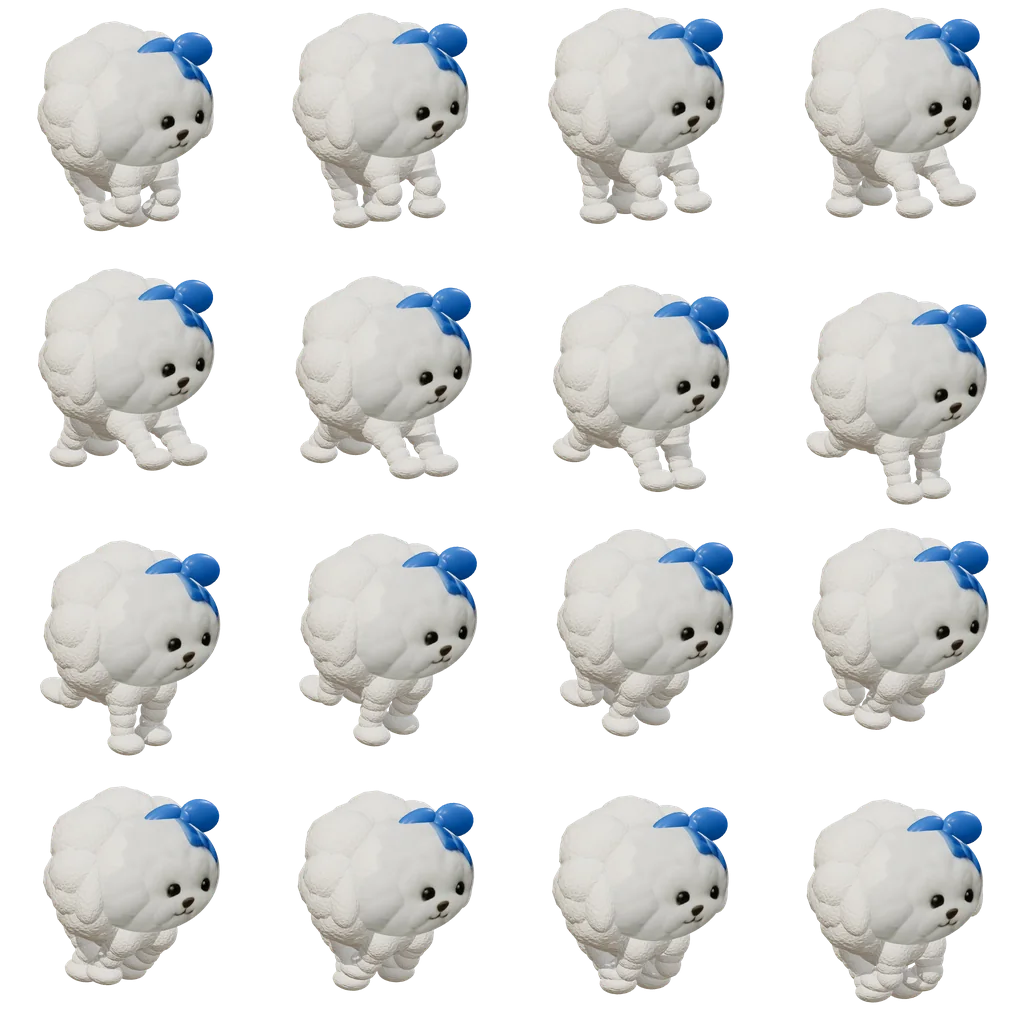
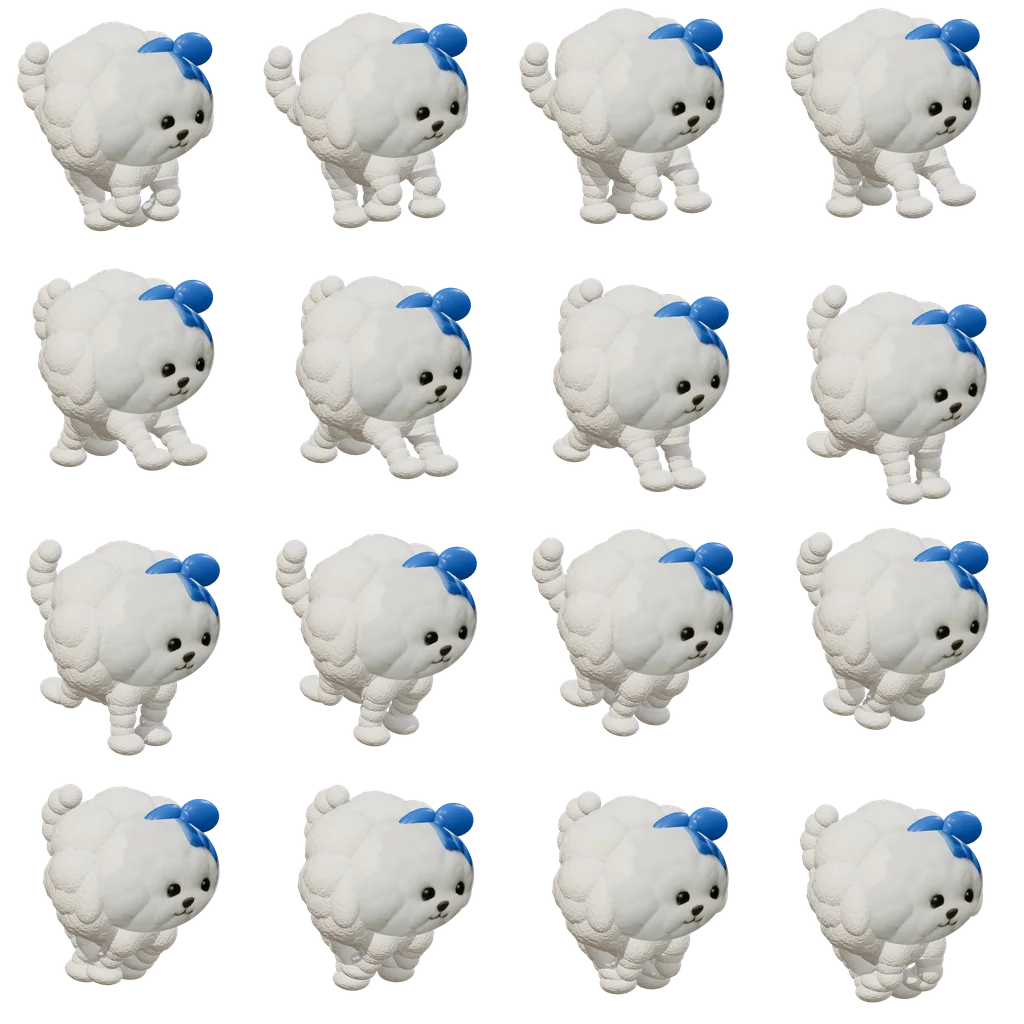
위젯: 선택 화면 미리보기(시계) · 강아지 꼬리(비숑 길게, 푸들 짧게) · 화면 켤 때마다 캐릭터 교체
- previewImage 4종(시계 화면 + 캐릭터)
- 3D 모델 꼬리 추가·재렌더(카메라 고정 FIXV라 시트 크기·바닥줄 불변), 시험 추가
- 화면 켜짐마다 캐릭터 3마리 새로 뽑기(WidgetSim.pickSet), 켜짐 경로에 refreshAll 추가

Claude-Session: https://claude.ai/code/session_01BfnUkjKGjCUEdZxJkMs9UT

diff --git a/tools/chars3d/models.js b/tools/chars3d/models.js
@@ -84,8 +84,19 @@
       const col = new T.Mesh(new T.TorusGeometry(0.34, 0.065, 10, 36), mat(o.collar, { roughness: 0.55 })); col.position.set(0.34, 0.06, 0); col.rotation.y = Math.PI / 2; col.scale.set(1, 1.0, 1); body.add(sh(col));
       const bk = new T.Mesh(new T.BoxGeometry(0.06, 0.15, 0.13), mat(0xd8d2c6, { metalness: 0.3, roughness: 0.4 })); bk.position.set(0.36, -0.27, 0.0); body.add(sh(bk));
     }
-    // 꼬리(둥근 털공)
-    const tail = new T.Group(); tail.position.set(-0.5, 0.2, 0); body.add(tail); const tb = ell(0.2, 0.2, 0.2, fm, 18); tb.position.set(-0.1, 0.08, 0); tail.add(tb); fluff(tb, 0.2, 0.2, 0.2, 12, 0.14, fm, o.seed + 3); P.tail = tail;
+    // 꼬리(2026-10-15: 위젯에서 꼬리가 안 보인다는 지적) — 엉덩이 위에서 솟아 등 뒤로 말려 올라가는 털뭉치 꼬리(비숑·푸들 꼬리).
+    //   예전엔 몸통 뒤 낮은 곳의 공 하나라 3/4 시점에서 뒷다리·엉덩이에 가려 안 보였다. 이제 등선 위로 솟아 실루엣에 보인다.
+    const tail = new T.Group(); tail.position.set(-0.46, 0.2, 0); body.add(tail);
+    // 비숑(o.tail='long'): 길고 곱슬곱슬한 털 꼬리가 등 뒤로 솟았다 끝이 앞으로 말린다 · 푸들(o.tail='short'): 짧고 둥근 털 꼬리(작은 폼)
+    const TAILS = {
+      long: { f: [24, 0.1], balls: [[-0.08, 0.08, 0.05, 0.14], [-0.2, 0.2, 0.1, 0.15], [-0.3, 0.34, 0.15, 0.155], [-0.35, 0.5, 0.19, 0.155], [-0.36, 0.66, 0.21, 0.15], [-0.29, 0.8, 0.22, 0.14], [-0.18, 0.89, 0.22, 0.12]] },
+      short: { f: [16, 0.08], balls: [[-0.1, 0.12, 0.1, 0.15], [-0.22, 0.3, 0.2, 0.18], [-0.28, 0.46, 0.26, 0.2]] }
+    };
+    const TS = TAILS[o.tail || 'short'];
+    TS.balls.forEach((q, i) => {
+      const tb = ell(q[3], q[3], q[3], fm, 20); tb.position.set(q[0], q[1], q[2]); tail.add(tb); fluff(tb, q[3], q[3], q[3], TS.f[0], TS.f[1], fm, o.seed + 3 + i);
+    });
+    P.tail = tail;
     // 다리 네 개 [앞오른, 앞왼, 뒤오른, 뒤왼] — 엉덩이 공이 몸통에 박힌 통통한 털 다리 + 발
     P.legs = [];
     [[0.3, 0.23], [0.3, -0.23], [-0.3, 0.23], [-0.3, -0.23]].forEach((p, i) => {
@@ -102,7 +113,7 @@
     P.body.rotation.z = 0.12 * Math.sin(a + 0.9) * g;
     P.head.rotation.z = -0.1 * Math.sin(a + 0.9) * g + 0.04; P.head.position.y = 0.52 + 0.03 * Math.sin(a * 2);
     P.ears.forEach((e, i) => { e.rotation.z = 0.3 * Math.sin(a + 1.8) * g; e.rotation.x = (i ? 1 : -1) * 0.1; });
-    P.tail.rotation.z = 0.4 * Math.sin(a * 2 + 1) + 0.3; P.tail.rotation.x = 0.3 * Math.sin(a * 2.0);
+    P.tail.rotation.z = 0.22 * Math.sin(a * 2 + 1) + 0.12; P.tail.rotation.x = 0.25 * Math.sin(a * 2.0);
   }
 
   // ═════ 고양이 (러블) ═════
@@ -271,8 +282,8 @@
 
   window.CHARS = {
     lovel: { name: '러블', build: () => buildCat(), pose: poseCat, yaw: -0.85, frames: 16, view: [3.3, 0.95, -0.12] },
-    dolsom: { name: '돌솜', build: () => buildDog({ fur: 0xeeeeea, bow: 0x3d7edb, seed: 31, tex: 'dolsom_head' }), pose: (r, p) => poseDog(r, p, { gait: 1.0, air: 0.22 }), yaw: -0.85, frames: 16, view: [3.3, 0.95] },
-    ppopu: { name: '뽀푸', build: () => buildDog({ fur: 0xb39a7a, collar: 0x5b3b24, seed: 57, tex: 'ppopu_head' }), pose: (r, p) => poseDog(r, p, { gait: 0.85, air: 0.3 }), yaw: -0.85, frames: 16, view: [3.3, 0.95] },
+    dolsom: { name: '돌솜', build: () => buildDog({ fur: 0xeeeeea, bow: 0x3d7edb, seed: 31, tex: 'dolsom_head', tail: 'long' }), pose: (r, p) => poseDog(r, p, { gait: 1.0, air: 0.22 }), yaw: -0.85, frames: 16, view: [3.3, 0.95] },
+    ppopu: { name: '뽀푸', build: () => buildDog({ fur: 0xb39a7a, collar: 0x5b3b24, seed: 57, tex: 'ppopu_head', tail: 'short' }), pose: (r, p) => poseDog(r, p, { gait: 0.85, air: 0.3 }), yaw: -0.85, frames: 16, view: [3.3, 0.95] },
     chaeng: { name: '챙챙', build: () => buildTadpole(), pose: poseTadpole, yaw: -0.8, frames: 16, view: [3.9, 1.1, -0.3] },
     sul: { name: '술', build: () => buildEagle(), pose: poseEagle, yaw: -0.8, frames: 16, view: [5.6, 1.35] },
     dudung: { name: '두덩', build: () => buildMole(), pose: poseMoleWalk, yaw: -0.85, frames: 16, view: [3.3, 1.05] },

diff --git a/test/widget_native_java.test.js b/test/widget_native_java.test.js
@@ -42,6 +42,9 @@ res = sys.argv[1]; bad = []; names = set(); ids = set(); refs = set()
 for r, d, fs in os.walk(res):
     for f in fs:
         p = os.path.join(r, f)
+        if f.endswith('.png'):
+            if os.path.basename(r).startswith('drawable'): names.add('drawable/' + f.rsplit('.', 1)[0])
+            continue
         try: minidom.parse(p)
         except Exception as e: bad.append(f + ': ' + str(e))
         t = open(p, encoding='utf-8').read()
@@ -65,7 +68,11 @@ print('BAD', bad); print('MISS', miss)
     assert(!bad.length, '알 수 없는 속성(오타?): ' + bad.join(', '));
     // 배경은 투명: 루트 배경 그림이 없어야 한다
     for (const f of walk(path.join(res, 'layout'), '.xml')) assert(!/gdm_bg_/.test(fs.readFileSync(f, 'utf8')), path.basename(f) + ' 에 배경이 남아 있다');
-    for (const n of ['hb', 'hw', 'vb', 'vw']) assert(fs.existsSync(path.join(res, 'xml', 'gdm_widget_' + n + '.xml')), n + ' 위젯 정의 없음');
+    for (const n of ['hb', 'hw', 'vb', 'vw']) {
+      assert(fs.existsSync(path.join(res, 'xml', 'gdm_widget_' + n + '.xml')), n + ' 위젯 정의 없음');
+      assert(fs.statSync(path.join(res, 'drawable-nodpi', 'gdm_preview_' + n + '.png')).size > 5000, n + ' 미리보기 그림 없음(위젯 고르는 화면에 시계가 안 보인다)');
+      assert(fs.readFileSync(path.join(res, 'xml', 'gdm_widget_' + n + '.xml'), 'utf8').includes('android:previewImage="@drawable/gdm_preview_' + n + '"'), n + ' 위젯 정의가 미리보기를 안 가리킨다');
+    }
   });
   await t('CI 워크플로가 위젯 파일·리소스를 복사하고 MainActivity·매니페스트에 연결한다', async () => {
     const y = fs.readFileSync(path.join(ROOT, '.github', 'workflows', 'build-apk.yml'), 'utf8');
@@ -90,6 +97,28 @@ print('BAD', bad); print('MISS', miss)
     assert((o.match(/@xml\/gdm_widget_/g) || []).length === 4);
     assert(o.includes('android:exported="true"') && o.includes('BOOT_COMPLETED'));
     execFileSync('python3', ['-I', '-c', 'import sys;from xml.dom import minidom;minidom.parseString(sys.stdin.read().encode())'], { input: o });
+  });
+  await t('강아지(돌솜·뽀푸) 시트에 꼬리가 있다 — 몸·머리보다 왼쪽으로 꼬리 털뭉치가 나와 있고 칸 밖으로 안 잘린다', async () => {
+    const py = `
+import sys
+from PIL import Image
+import numpy as np
+bad = []
+for n in ['dolsom', 'ppopu']:
+    a = np.asarray(Image.open(sys.argv[1] + '/' + n + '.webp').convert('RGBA'))[..., 3]
+    mins = []
+    for i in range(16):
+        cx, cy = (i % 4) * 256, (i // 4) * 256
+        c = a[cy:cy + 256, cx:cx + 256] > 24
+        xs = np.where(c.any(0))[0]
+        if xs.min() < 3 or xs.max() > 252: bad.append(n + '#' + str(i) + ' 칸 가장자리에 닿음')
+        mins.append(int(xs.min()))
+    # 꼬리가 없던 때는 몸·머리 털의 왼쪽 끝이 36~48px 이었다. 꼬리가 있으면 16프레임 중 절반 이상에서 그보다 왼쪽(<=34px)에 털뭉치가 나온다
+    if sum(1 for m in mins if m <= 34) < 8: bad.append(n + ' 꼬리가 안 보인다(왼쪽 끝 ' + str(mins) + ')')
+print('BAD', bad)
+`;
+    const o = execFileSync('python3', ['-I', '-c', py, path.join(ROOT, 'www', 'chars3d')], { encoding: 'utf-8' });
+    assert(/BAD \[\]/.test(o), o);
   });
   console.log(`\n${pass} pass, ${fail} fail`);
   process.exit(fail ? 1 : 0);

diff --git a/tools/chars3d/export.js b/tools/chars3d/export.js
@@ -21,7 +21,8 @@ for(const id of ids){
   const wU=(bx[1]-bx[0]+1)*k,hU=(bx[3]-bx[2]+1)*k,midX=(bx[0]+bx[1])/2,midY=(bx[2]+bx[3])/2;
   const size=Math.max(wU,hU)*1.06;
   const cx=V0[2]+(midX-256)*k,cy=V0[1]+(256-midY)*k/Math.cos(EL);
-  const V=[+size.toFixed(3),+cy.toFixed(3),+cx.toFixed(3)];
+  let V=[+size.toFixed(3),+cy.toFixed(3),+cx.toFixed(3)];
+  if(process.env.FIXV){const fv=JSON.parse(process.env.FIXV)[id];if(fv){V=fv;console.log('FIXV',id,JSON.stringify(V),'측정한 범위로 맞췄다면',JSON.stringify([+size.toFixed(3),+cy.toFixed(3),+cx.toFixed(3)]));}}
   // ② 맞춘 카메라로 다시 렌더
   await p.evaluate(v=>{window.OV=v;},V);await p.evaluate(id=>window.setup(id),id);fs.mkdirSync(`fr/${id}`,{recursive:true});
   let lowest=-1,f2=0;const all=await frames();

diff --git a/test/java/WidgetJvmTest.java b/test/java/WidgetJvmTest.java
@@ -130,6 +130,10 @@ public class WidgetJvmTest {
             ok(s3.isSettled() && n < 600, tag + ": 멈추라고 하면 " + (n / 10f) + "초 안에 바닥에서 쉰다");
             s3.resume();
         }
+        // 화면을 켤 때마다 캐릭터 셋이 바뀐다: 매번 직전과 다른 구성, 서로 다른 3마리, 6마리 모두 골고루 등장
+        { String[] cur = WidgetSim.pickSet(1, null); boolean always = true, distinct = true; java.util.Set<String> seenIds = new java.util.HashSet<String>();
+          for (int i = 0; i < 300; i++) { String[] nx = WidgetSim.pickSet(1000 + i * 31L, cur); if (WidgetSim.sameSet(nx, cur)) always = false; if (nx.length != 3 || nx[0].equals(nx[1]) || nx[0].equals(nx[2]) || nx[1].equals(nx[2])) distinct = false; for (String x : nx) seenIds.add(x); cur = nx; }
+          ok(always, "화면을 켤 때마다 직전과 다른 캐릭터 구성이 나온다(300번)"); ok(distinct && seenIds.size() == WidgetSim.ORDER.length, "서로 다른 3마리, 6마리 모두 골고루 나온다(" + seenIds.size() + "종)"); }
         // 같은 시드 → 같은 결과(결정성)
         WidgetGeo g = WidgetGeo.of(false, 290f, 120f);
         WidgetSim a = new WidgetSim(g, 42, new String[] { "dolsom", "lovel" }), b = new WidgetSim(g, 42, new String[] { "dolsom", "lovel" });
@@ -181,9 +185,47 @@ public class WidgetJvmTest {
         System.out.println(sb);
     }
 
+    /**
+     * 위젯 고르는 화면에 보일 미리보기 그림(시계 화면 + 캐릭터) 한 장. 실제 위젯은 배경이 투명하지만 미리보기는 카드 위에 놓이므로 옅은 바탕을 깐다.
+     *   java WidgetJvmTest preview <sheetsDir> <out.png> <h|v> <W> <H> <dark|light> <HH:mm>
+     * 캐릭터 셋·모습은 '한 마리는 시계 위, 한 마리는 매달림, 한 마리는 걷는' 장면이 나오는 시드를 찾아 쓴다.
+     */
+    static void preview(String[] a) throws Exception {
+        File dir = new File(a[1]); boolean v = a[3].equals("v"); float W = Float.parseFloat(a[4]), H = Float.parseFloat(a[5]); boolean dark = a[6].equals("dark"); String tm = a[7];
+        Map<String, BufferedImage> sheets = new HashMap<String, BufferedImage>();
+        for (String id : ALL) { File f = new File(dir, id + ".png"); if (f.exists()) sheets.put(id, ImageIO.read(f)); }
+        WidgetGeo g = WidgetGeo.of(v, W, H);
+        WidgetSim s = null; String[] ids = { "dolsom", "lovel", "sul" };
+        for (long seed = 1; seed < 400 && s == null; seed++) {
+            WidgetSim t = new WidgetSim(g, seed, ids);
+            for (int i = 0; i < 1200 && s == null; i++) {
+                t.step(0.05f);
+                boolean top = false, hang = false, ground = false;
+                for (WidgetSim.Ch c : t.cs) { if (c.st == WidgetSim.TOP_REST || c.st == WidgetSim.TOP_WALK) top = true; else if (c.st == WidgetSim.HANG) hang = true; else if (c.zone == 0) ground = true; }
+                if (top && hang && ground) s = t;
+            }
+        }
+        if (s == null) s = new WidgetSim(g, 1, ids);
+        int S = 3; BufferedImage im = new BufferedImage((int) (W * S), (int) (H * S), BufferedImage.TYPE_INT_ARGB);
+        Graphics2D gr = im.createGraphics(); gr.setRenderingHint(RenderingHints.KEY_ANTIALIASING, RenderingHints.VALUE_ANTIALIAS_ON); gr.setRenderingHint(RenderingHints.KEY_TEXT_ANTIALIASING, RenderingHints.VALUE_TEXT_ANTIALIAS_ON); gr.setRenderingHint(RenderingHints.KEY_INTERPOLATION, RenderingHints.VALUE_INTERPOLATION_BICUBIC);
+        Color c1 = dark ? new Color(0x4A5470) : new Color(0xF6E9E4), c2 = dark ? new Color(0x20263A) : new Color(0xE8DAD8);
+        gr.setPaint(new GradientPaint(0, 0, c1, 0, H * S, c2)); gr.fillRoundRect(0, 0, (int) (W * S), (int) (H * S), 26 * S, 26 * S);
+        gr.setColor(dark ? Color.WHITE : new Color(0x111114));
+        gr.setFont(new Font("SansSerif", Font.BOLD, Math.round(g.textDp * 0.98f * S)));
+        FontMetrics fm = gr.getFontMetrics();
+        { String ref = v ? "00" : tm; float wd = fm.stringWidth(ref) / (float) S, hd = fm.getAscent() * 0.72f / S;   // 글꼴이 달라도 시계 상자(폭·높이)에 맞춘다
+          float k = Math.min(g.clkW / wd, (v ? g.lineH : g.clkH) / hd); gr.setFont(gr.getFont().deriveFont(gr.getFont().getSize2D() * Math.min(1f, k))); fm = gr.getFontMetrics(); }
+        if (!v) gr.drawString(tm, (g.clkL + (g.clkW - fm.stringWidth(tm) / (float) S) / 2f) * S, g.clkB() * S);
+        else { String h1 = tm.substring(0, 2), m1 = tm.substring(3, 5); gr.drawString(h1, (g.clkL + (g.clkW - fm.stringWidth(h1) / (float) S) / 2f) * S, (g.clkT + g.lineH) * S); gr.drawString(m1, (g.clkL + (g.clkW - fm.stringWidth(m1) / (float) S) / 2f) * S, g.clkB() * S); }
+        WidgetArt.draw(s, new AwtSurface(gr, sheets, S), dark);
+        gr.dispose();
+        ImageIO.write(im, "png", new File(a[2]));
+    }
+
     public static void main(String[] a) throws Exception {
         if (a.length > 0 && a[0].equals("check")) check();
         else if (a.length > 0 && a[0].equals("render")) render(a);
+        else if (a.length > 0 && a[0].equals("preview")) preview(a);
         else System.out.println("usage: check | render ...");
         if (fails > 0) System.exit(1);
     }

diff --git a/native/WidgetCore.java b/native/WidgetCore.java
@@ -265,22 +265,22 @@ public final class WidgetCore {
         n.S = Math.min(den, 1.6f);
         n.geo = WidgetGeo.of(v, w, h);
         measureClock(n);
-        n.chars = pickChars(id);
+        n.chars = pickChars(id, null);
         n.sim = new WidgetSim(n.geo, System.nanoTime() ^ id, n.chars);
         int bw = Math.max(40, Math.round(w * n.S)), bh = Math.max(40, Math.round(h * n.S));
         n.bmp = Bitmap.createBitmap(bw, bh, Bitmap.Config.ARGB_8888); n.cv = new Canvas(n.bmp); n.surf = new AndSurface(n.cv, n.S, n.geo);
         INST.put(id, n);
         return n;
     }
-    /** 하루 동안은 같은 캐릭터 셋(위젯마다 다름), 다음 날 다시 뽑는다. */
-    static String[] pickChars(int id) {
-        Calendar cal = Calendar.getInstance();
-        Random r = new Random(cal.get(Calendar.YEAR) * 1000L + cal.get(Calendar.DAY_OF_YEAR) + id * 7919L);
-        java.util.List<String> pool = new java.util.ArrayList<String>(java.util.Arrays.asList(WidgetSim.ORDER));
-        java.util.Collections.shuffle(pool, r);
-        return new String[] { pool.get(0), pool.get(1), pool.get(2) };
+    static String[] pickChars(int id, String[] prev) { return WidgetSim.pickSet(System.nanoTime() ^ (id * 7919L), prev); }
+    /** 화면이 켜질 때마다 위젯의 캐릭터 셋을 새로 뽑아 갈아 끼운다(그림 판은 다음 그리기 때 새로 읽는다). */
+    static void reshuffle(Context c) {
+        for (Inst n : INST.values()) {
+            n.chars = pickChars(n.id, n.chars);
+            n.sim = new WidgetSim(n.geo, System.nanoTime() ^ n.id, n.chars);
+        }
+        freeSheets();
     }
-    /** 실제 글꼴로 시계 숫자 상자를 재서 배치를 맞춘다(기기 글꼴이 달라도 캐릭터가 시계에 정확히 걸리게). */
     /** 출퇴근 장면이면 시계를 줄이고, 아니면 원래대로(바뀌었을 때만 글꼴을 다시 잰다). */
     static void applyCommute(Inst n, boolean commute) {
         if (n.geo.commute == commute) return;
@@ -434,7 +434,8 @@ public final class WidgetCore {
         @Override public void onReceive(Context c, Intent it) {
             String a = it == null ? null : it.getAction();
             if (Intent.ACTION_SCREEN_OFF.equals(a)) stop(c, true);
-            else if (Intent.ACTION_SCREEN_ON.equals(a) || Intent.ACTION_USER_PRESENT.equals(a)) { evalScene(c); wake(c, "screen"); }
+            else if (Intent.ACTION_SCREEN_ON.equals(a)) { reshuffle(c); evalScene(c); refreshAll(c, true); wake(c, "screen"); }          // 켤 때마다 캐릭터가 바뀐다
+            else if (Intent.ACTION_USER_PRESENT.equals(a)) { evalScene(c); wake(c, "screen"); }                                            // 잠금 해제 때는 다시 안 바꾼다(켜짐 직후 이어서 옴)
         }
     };
     static void ensureReceiver(Context c) {

diff --git a/native/WidgetSim.java b/native/WidgetSim.java
@@ -25,6 +25,23 @@ public final class WidgetSim {
         if ("sul".equals(id)) return new float[] { 27f, 230.5f, 131f, 20f, 16f, 0.76f };
         return new float[] { 15f, 222.5f, 128f, 13f, 0f, 1f };
     }
+    /** 캐릭터 셋(6마리 중 3마리)을 무작위로 뽑는다. prev 가 있으면 그것과 다른 구성이 나온다(화면을 켤 때마다 바뀌어 보이도록). */
+    public static String[] pickSet(long seed, String[] prev) {
+        java.util.Random r = new java.util.Random(seed);
+        String[] out = null;
+        for (int k = 0; k < 24; k++) {
+            java.util.List<String> pool = new java.util.ArrayList<String>(java.util.Arrays.asList(ORDER));
+            java.util.Collections.shuffle(pool, r);
+            out = new String[] { pool.get(0), pool.get(1), pool.get(2) };
+            if (prev == null || !sameSet(out, prev)) break;
+        }
+        return out;
+    }
+    public static boolean sameSet(String[] a, String[] b) {
+        if (a.length != b.length) return false;
+        for (String x : a) { boolean f = false; for (String y : b) if (x.equals(y)) f = true; if (!f) return false; }
+        return true;
+    }
     public static boolean poops(String id) { return "dolsom".equals(id) || "ppopu".equals(id) || "lovel".equals(id); }
 
     public static final class Ch {

diff --git a/HANDOFF.md b/HANDOFF.md
@@ -779,3 +779,4 @@
   · **미확인(실기기 없음)**: RemoteViews 레이아웃·TextClock 숫자 상자와 실측(Paint) 정렬(삼성 One UI 글꼴), 런처의 부분 갱신 제한, 시트 메모리, 핀 요청 지원 런처. 로컬엔 진짜 android.jar 가 없어 android 부분은 손으로 쓴 스텁(`test/android-stubs`)으로만 컴파일했다 — **진짜 컴파일은 CI(gradle)가 처음**이다. 한계: 앱 프로세스가 죽어 있으면 화면 켜짐만으로는 움직임이 안 시작된다(위젯 탭·런처 갱신·알람 때는 시작). 배터리: 상시 서비스·폴링 없음, 알람 1개 + 화면 켜진 45초 동안만 10fps.
   · **위젯 CI 메모(12:50~)**: ① `.gitignore` 의 `android/` 규칙이 `test/android-stubs/android/**` 를 가려 CI 에서 스텁이 빠졌다 → `!test/android-stubs/android/` 예외 추가. ② 진짜 빌드(aapt)에서 `android:format24Hr` 속성 오타가 처음 드러났다 → `format24Hour/format12Hour`(시험에 속성 이름 대조 추가). 이제 **진짜 gradle 빌드 통과**(run 38681289051, debug APK 생성; 실기기 동작은 여전히 미확인). ③ CI 가 실패하면 시험 실패 항목·gradle 오류를 주석(annotation)으로 남기도록 워크플로 수정(로그 전체를 못 내려받아도 `gh api repos/.../check-runs/<job id>/annotations` 로 읽는다). ④ `tabs_smoke`·`station_timetable` 은 부하가 걸리면 가끔 실패하는 기존 흔들림이다(변경 전 코드도 로컬 부하 시험 4번 중 1번 실패) — 실패하면 `gh api -X POST repos/DullyYJ/subway-app/actions/runs/<id>/rerun-failed-jobs`.
 - **(14:14 추가, YJ 실기기 스크린샷 보고: 배경 투명 + 위젯 크기를 시계 크기로 크게 + 버튼은 생성 후 3분만)** — ① 배경 없음: 레이아웃 루트의 `gdm_bg_*` 제거(파일 삭제), 시계 글자에 옅은 그림자, 말풍선·버튼은 판이 있는 모양(블랙=옅은 흰 판+검정 버튼, 화이트=진한 반투명 판+흰 버튼). **'블랙'=검정 글자, '화이트'=흰 글자**로 뜻을 바꿨다(레이아웃 파일 이름 `_dark`=블랙 변종은 그대로). 날짜 글자는 뺐다(GONE). ② 크기: 위젯 기본 칸을 가로 3×1·세로 2×2 로 줄이고(`targetCellWidth/Height`, 최소 크기 조정) `WidgetGeo` 를 다시 짜서 시계가 칸을 꽉 채운다 — 캐릭터가 올라설 머리 공간(charH+4)만 남기고 아래쪽에 크게 둔다(`T=min(높이 기준, 폭 기준)`, 최대 120dp). 시계가 칸을 채워 바깥 모서리 자리가 없으면 매달리기는 숫자 앞(안쪽 모서리)에서 한다(`hangX`). ③ 출퇴근 장면의 시계 축소는 최대 0.5배(+말풍선·버튼 자리가 모자라면 더; 세로는 아래 자리 계산 `fit`, 가로는 폭 `W-136`), 줄 서는 폭 `stageW`. ④ **버튼 3분**: 장면은 시작 시각부터 최대 90분 '대기'하지만 **화면이 켜져 처음 그려지는 순간(wake: 화면 켜짐·위젯 탭·런처 갱신·알람 때 화면이 켜져 있으면)부터 3분**(`armScene`, `SHOW_MS`)만 보이고, 알람이 3분 뒤 장면을 치우며 시계로 돌아간다. 안 눌렀어도 `lastDone` 에 기록해 같은 장면을 다시 띄우지 않는다. 설정 전달(`wake(…,"cfg")`)은 앱을 만지는 중이라 세지 않는다. 시험: `WidgetJvmTest check` 크기 7종(가로 230×90·180×80·300×100·360×160, 세로 170×210·130×250·160×320)에서 '시계가 칸에 크게', '(출퇴근) 말풍선·버튼 겹침 없음·말풍선 크기', '매달리기'. **3분 로직(armScene)은 안드로이드 쪽(SharedPreferences·알람)이라 JVM 시험이 없다 — 스텁 컴파일만 했고 실기기 확인이 필요하다.**
+- **(15:04 추가, YJ 실기기: ① 위젯 고르는 화면에 시계 화면이 보이게 ② 강아지 두 종류에 꼬리 ③ 화면을 켤 때마다 캐릭터 교체; 15:13 비숑=길고 곱슬한 꼬리, 푸들=짧고 부드러운 꼬리)** — ① 위젯 4종의 provider xml 에 `android:previewImage`(`native/res/drawable-nodpi/gdm_preview_{hb,hw,vb,vw}.png`) 추가. 그림은 `WidgetJvmTest preview`(시계 화면 + 캐릭터가 시계 위·매달림·걷는 장면을 찾아 그림, 옅은 바탕 카드 위; 실제 위젯은 투명). 위젯 크기를 바꾸면 `java … WidgetJvmTest preview <시트 png 폴더> <out.png> <h|v> <W> <H> <dark|light> 10:09` 로 다시 만든다. ② 꼬리: 원인은 3D 모델(`tools/chars3d/models.js buildDog`)의 꼬리가 몸통 뒤 낮은 공 하나라 3/4 시점에서 머리·엉덩이에 가려진 것. 이제 **비숑(돌솜)=털공 7개가 등 뒤로 솟아 끝이 앞으로 말리는 긴 곱슬 꼬리, 푸들(뽀푸)=3개짜리 짧은 둥근 꼬리**(`o.tail:'long'|'short'`), 위로 솟아 머리 왼쪽에 보인다. **카메라는 예전 값 그대로**(`export.js` 에 `FIXV` 환경변수 추가: `FIXV='{"dolsom":[2.501,1.054,0.07],"ppopu":[2.6,1.101,0.078]}' node export.js dolsom,ppopu 16 14 && python3 assemble.py`) — 그래서 시트 크기·바닥줄·중심(앱 D3·`cfg`의 base/ox)이 하나도 안 바뀐다. 렌더 환경: three r160 은 `/home/claude/mrdoob/three.js/build/three.min.js`(npm 은 이 샌드박스에서 막힘), `NODE_PATH=/opt/node-tools/node_modules`. 앱 전체(로딩 캐릭터·시간표 놀이터·위젯)가 같은 시트를 쓰므로 모두 꼬리가 생긴다. 시험: `widget_native_java` 에 '꼬리가 보이고 칸 밖으로 안 잘린다'(꼬리 없던 옛 시트로 돌리면 실패하는 것 확인). ③ 화면 켜짐(`ACTION_SCREEN_ON`)마다 `reshuffle` 로 3마리를 새로 뽑아 갈아 끼운다(`WidgetSim.pickSet` — 직전과 다른 구성, 6마리 골고루; JVM 시험 포함). 잠금해제(`USER_PRESENT`)는 켜짐 직후 이어서 오므로 다시 안 바꾼다. 켜짐 경로에 빠져 있던 `refreshAll` 도 넣었다(장면이 시작될 때 말풍선·버튼이 엔진 응답을 기다리지 않고 바로 뜸 — 엔진이 실패해도 기본 문구로 뜬다). 한계: 켜짐 수신기는 앱 프로세스가 살아 있을 때만 동작(죽어 있으면 위젯 탭·런처 갱신 때 새 프로세스가 무작위로 뽑는다). 실기기 미확인.
